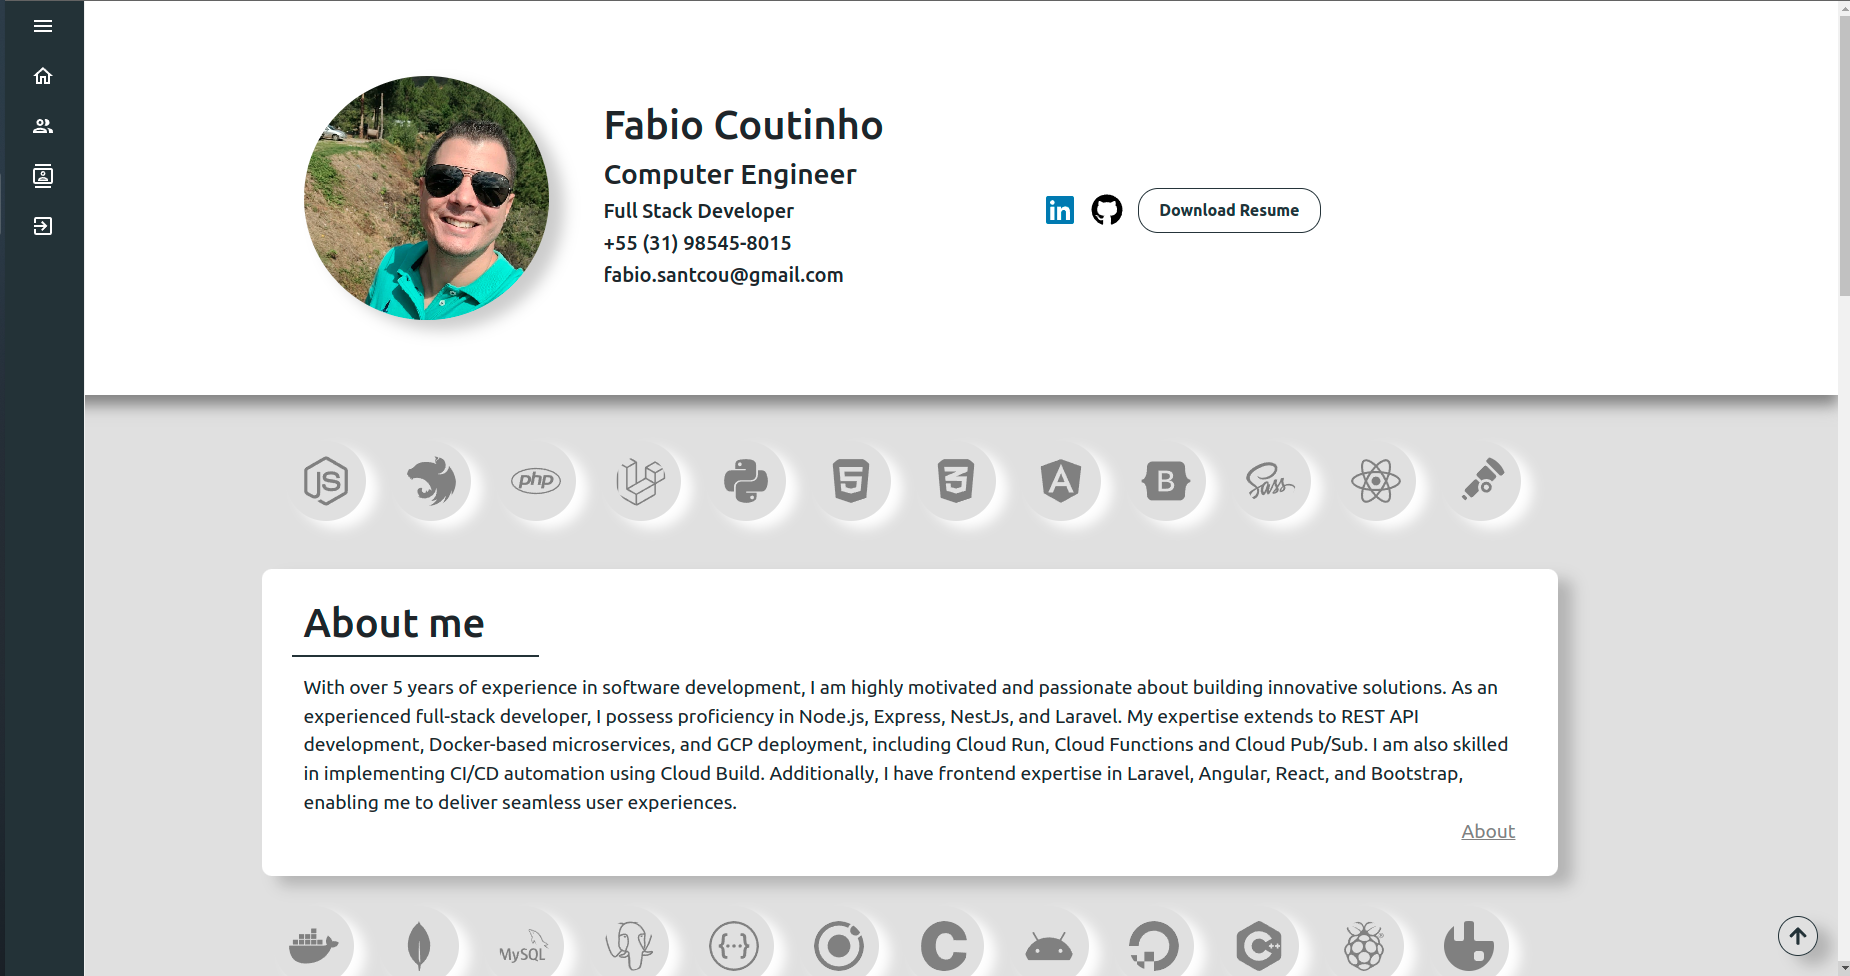
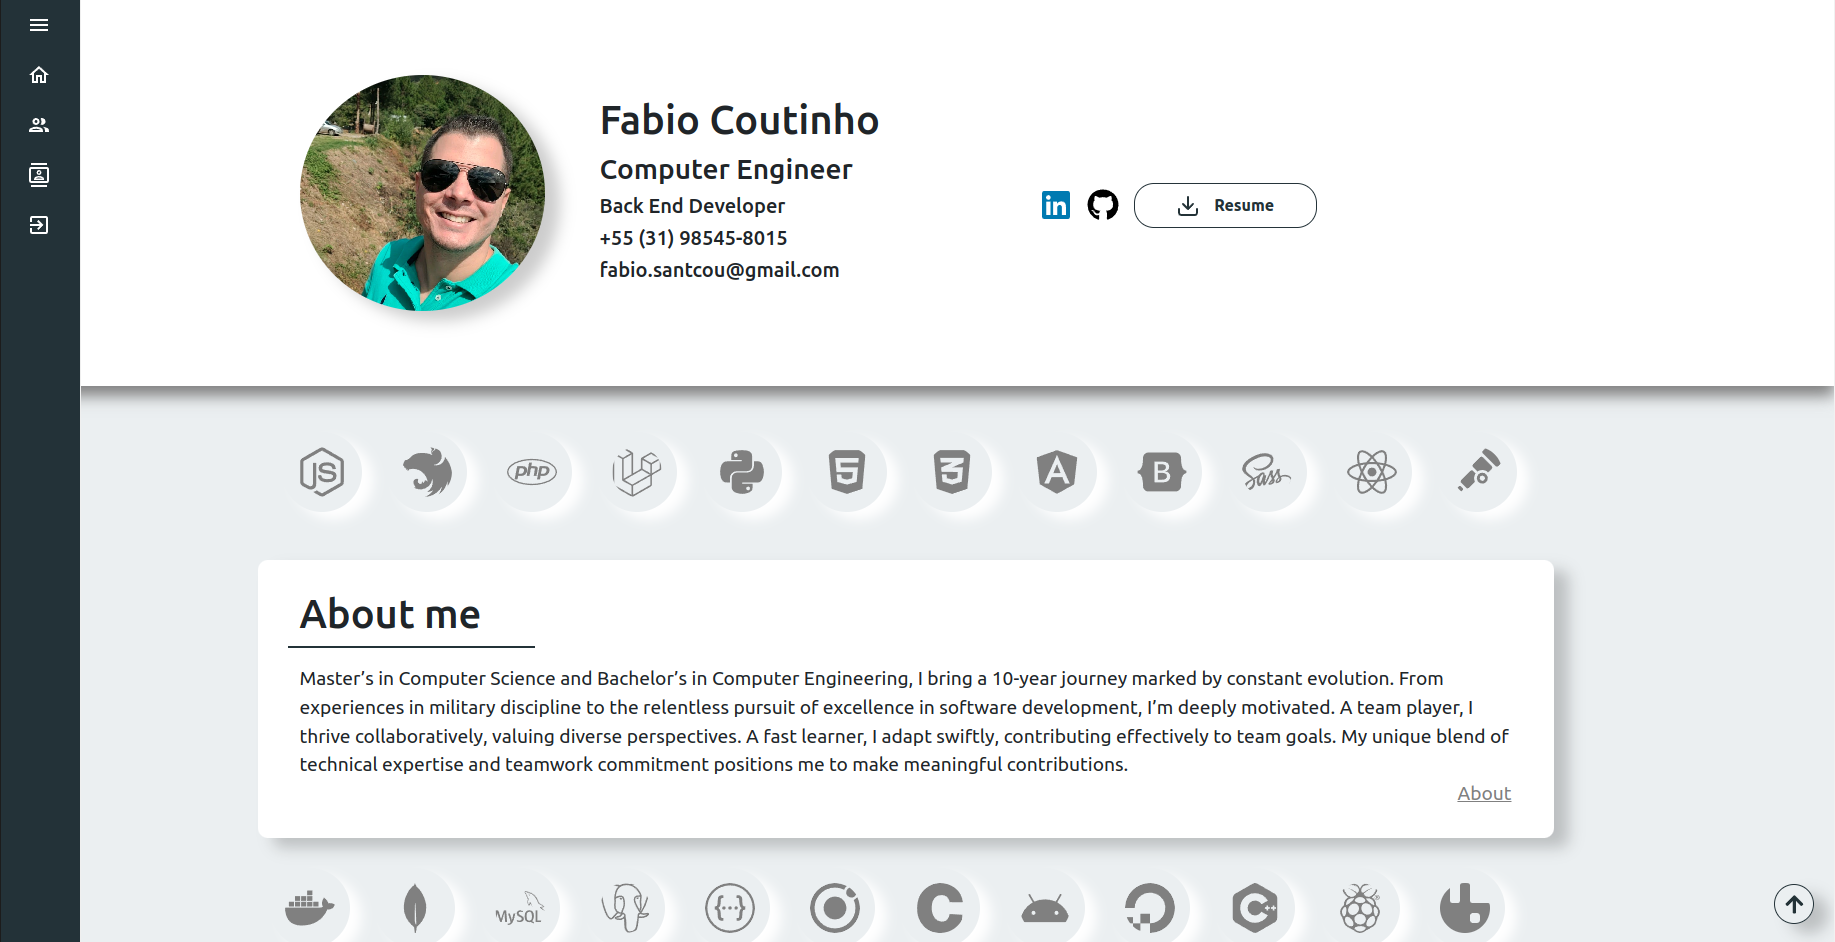
refactor: update data

diff --git a/src/Components/HomeHeader/HomeHeader.tsx b/src/Components/HomeHeader/HomeHeader.tsx
@@ -18,8 +18,8 @@ const HomeHeader = () => {
           <div className="d-sm-none mt-5"></div>
           <div className="col-sm-3" id='name'>
             <h1>Fabio Coutinho</h1>
-            <h3>Software Engineer</h3>
-            <h5>Full Stack Developer</h5>
+            <h3>Computer Engineer</h3>
+            <h5>Senior Back End Developer</h5>
             <h5>+55 (31) 98545-8015</h5>
             <h5>fabio.santcou@gmail.com</h5>
           </div>

diff --git a/public/index.html b/public/index.html
@@ -30,7 +30,7 @@
       work correctly both with client-side routing and a non-root public URL.
       Learn how to configure a non-root public URL by running `npm run build`.
     -->
-    <title>React App</title>
+    <title>Fabio Portfolio</title>
   </head>
   <body>
     <noscript>You need to enable JavaScript to run this app.</noscript>
